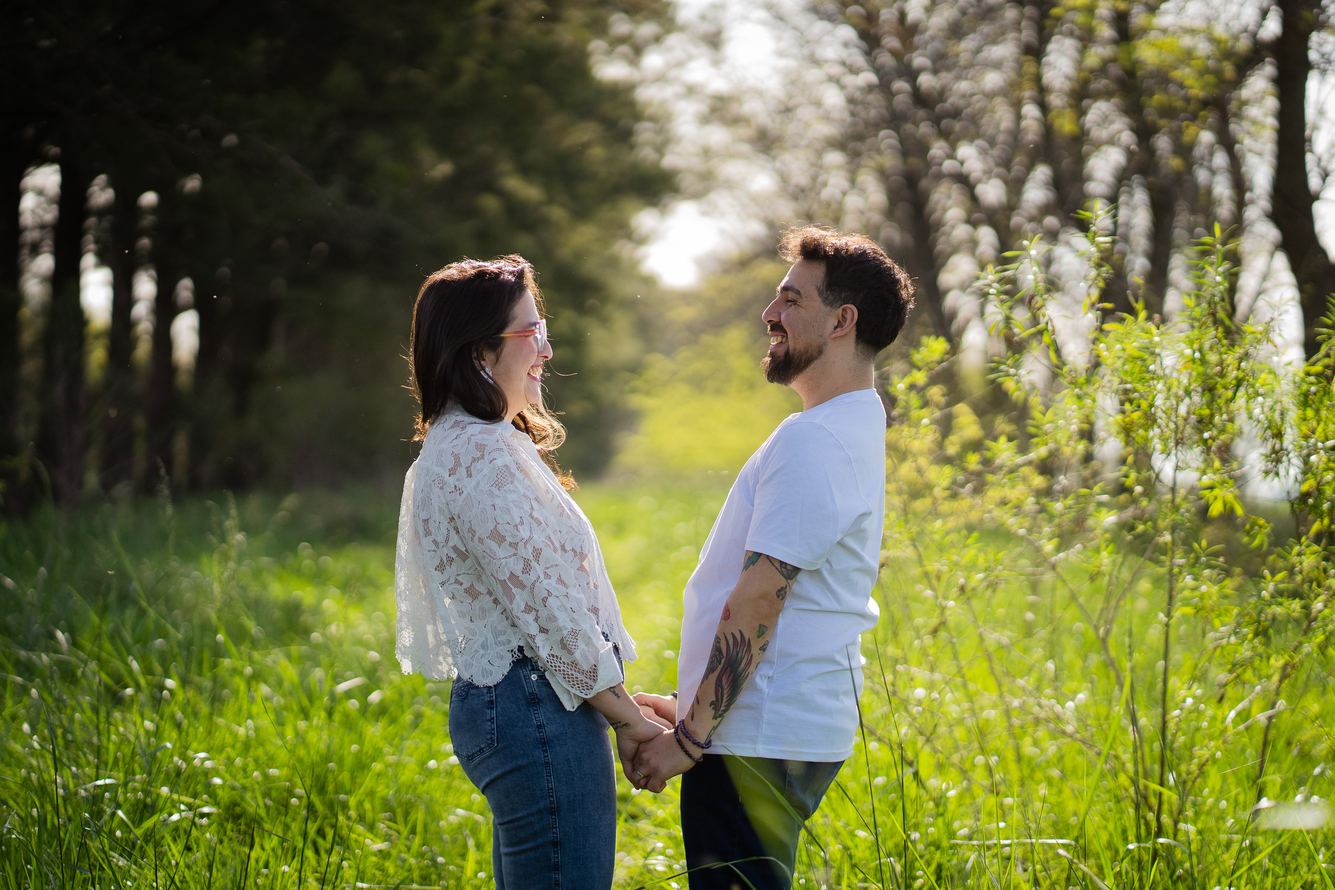
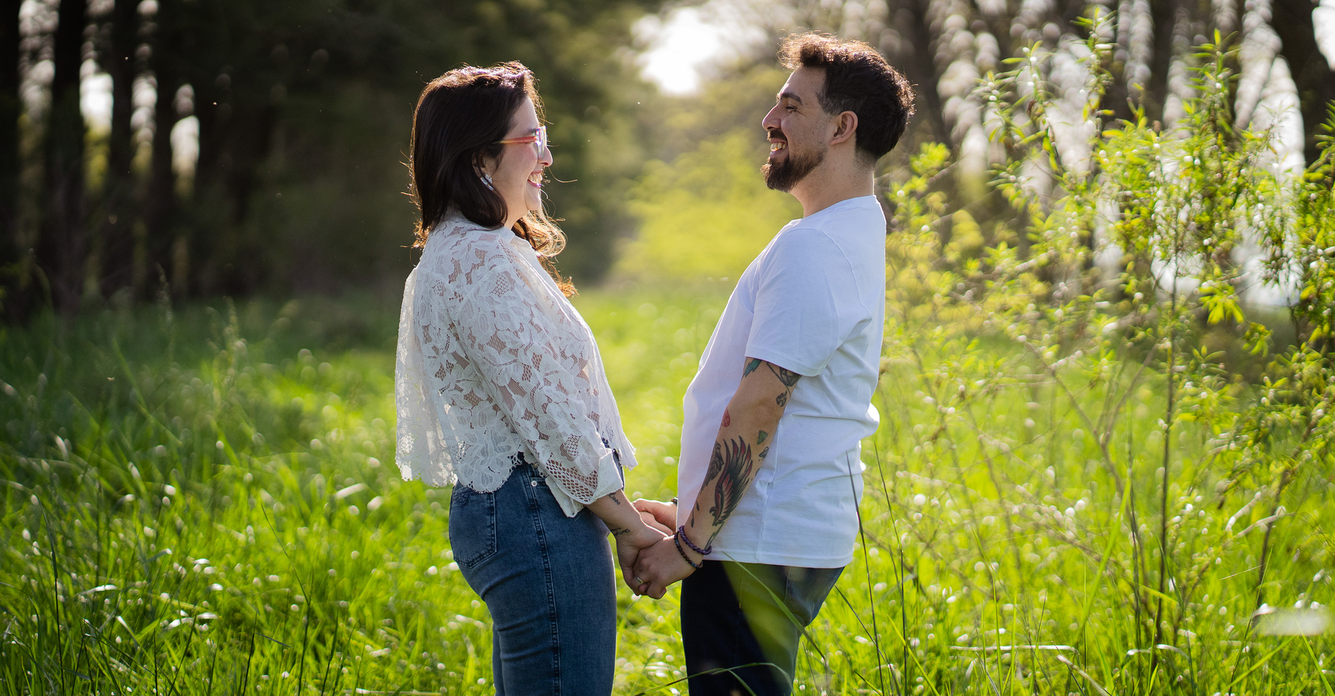
fotos

diff --git a/scss/layout/main.scss b/scss/layout/main.scss
@@ -29,8 +29,8 @@
         text-align: center;
         z-index: 100;
         background-color: var(--main-color-2);
-        position: absolute;
-        bottom: 0;
+        position: sticky;
+        top: 100vh;
         width: 100%;
         opacity: 90%;
         }
@@ -88,6 +88,20 @@
             }
         }
     }
+
+    #foto1{
+        scroll-snap-align: start;
+        height: 100vh;
+        background-image: url(../../images/1.jpg);
+        background-size: cover;
+        background-repeat: no-repeat;
+        @include media-query-mobile{
+            background-image: url(../../images/43.jpg);
+            background-size: cover;
+            background-repeat: no-repeat;
+        }
+    }
+
     #save-date{
         scroll-snap-align: start;
         .texto-date{
@@ -178,6 +192,19 @@
         }
     }
 
+    #foto2{
+        scroll-snap-align: start;
+        height: 100vh;
+        background-image: url(../../images/34.jpg);
+        background-size: cover;
+        background-repeat: no-repeat;
+        @include media-query-mobile{
+            background-image: url(../../images/73.jpg);
+            background-size: cover;
+            background-repeat: no-repeat;
+        }
+    }
+
     #civil{
         scroll-snap-align: start;
         .texto-civil{
@@ -225,6 +252,19 @@
                     font-size: 46px;
                 }
             }
+        }
+    }
+
+    #foto3{
+        scroll-snap-align: start;
+        height: 100vh;
+        background-image: url(../../images/52.jpg);
+        background-size: cover;
+        background-repeat: no-repeat;
+        @include media-query-mobile{
+            background-image: url(../../images/41.jpg);
+            background-size: cover;
+            background-repeat: no-repeat;
         }
     }
 
@@ -312,6 +352,19 @@
         }
     }
 
+    #foto4{
+        scroll-snap-align: start;
+        height: 100vh;
+        background-image: url(../../images/70.jpg);
+        background-size: cover;
+        background-repeat: no-repeat;
+        @include media-query-mobile{
+            background-image: url(../../images/4.jpg);
+            background-size: cover;
+            background-repeat: no-repeat;
+        }
+    }
+
     #gift{
         scroll-snap-align: start;
         height: 100vh;
@@ -383,6 +436,19 @@
                     font-size: 40px;
                 }
             }
+        }
+    }
+
+    #foto5{
+        scroll-snap-align: start;
+        height: 100vh;
+        background-image: url(../../images/39.jpg);
+        background-size: cover;
+        background-repeat: no-repeat;
+        @include media-query-mobile{
+            background-image: url(../../images/71.jpg);
+            background-size: cover;
+            background-repeat: no-repeat;
         }
     }
 
@@ -462,15 +528,37 @@
     }
 
     #see-you{
-        font-size: 30px;
-        color: var(--main-color);
-        text-align: center;
-        padding-top: 50px;
-        padding-bottom: 30px;
-        @include media-query-maxitablet{
-            font-size: 70px;
-            padding-bottom: 30px;
+        scroll-snap-align: start;
+        height: 100vh;
+        background-image: url(../../images/7.jpg);
+        background-size: cover;
+        background-repeat: no-repeat;
+        @include media-query-mobile{
+            background-image: url(../../images/76.jpg);
+            background-size: cover;
+            background-repeat: no-repeat;
+        }
+        h3{
+            font-size: 40px;
+            color: var(--main-color);
+            background-color: var(--main-color-2);
+            position: sticky;
+            top: 100vh;
+            width: 100%;
+            height: 50px;
+            padding: 10px 0;
+            z-index: 100;
+            text-align: center;
+            @include media-query-maxitablet{
+                font-size: 70px;
+                padding-bottom: 30px;
+            }
+            @include media-query-mobile{
+                position: sticky;
+                top: 30vh;
+                color: var(--main-color-2);
+                background-color: unset;
+            }
         }
     }
 }
-

diff --git a/css/main.css b/css/main.css
@@ -66,8 +66,8 @@ body {
   text-align: center;
   z-index: 100;
   background-color: var(--main-color-2);
-  position: absolute;
-  bottom: 0;
+  position: sticky;
+  top: 100vh;
   width: 100%;
   opacity: 90%;
 }
@@ -127,6 +127,20 @@ body {
 @media (min-width: 1024px) and (max-width: 2400px) {
   #secciones #date .date .countdown-container .texto .message {
     font-size: 100px;
+  }
+}
+#secciones #foto1 {
+  scroll-snap-align: start;
+  height: 100vh;
+  background-image: url(../../images/1.jpg);
+  background-size: cover;
+  background-repeat: no-repeat;
+}
+@media (max-width: 768px) {
+  #secciones #foto1 {
+    background-image: url(../../images/43.jpg);
+    background-size: cover;
+    background-repeat: no-repeat;
   }
 }
 #secciones #save-date {
@@ -228,6 +242,20 @@ body {
   background-color: var(--main-color-2);
   border: 1px solid var(--secondary-color);
 }
+#secciones #foto2 {
+  scroll-snap-align: start;
+  height: 100vh;
+  background-image: url(../../images/34.jpg);
+  background-size: cover;
+  background-repeat: no-repeat;
+}
+@media (max-width: 768px) {
+  #secciones #foto2 {
+    background-image: url(../../images/73.jpg);
+    background-size: cover;
+    background-repeat: no-repeat;
+  }
+}
 #secciones #civil {
   scroll-snap-align: start;
 }
@@ -281,6 +309,20 @@ body {
 @media (min-width: 1024px) and (max-width: 2400px) {
   #secciones #civil .texto-civil h3 {
     font-size: 46px;
+  }
+}
+#secciones #foto3 {
+  scroll-snap-align: start;
+  height: 100vh;
+  background-image: url(../../images/52.jpg);
+  background-size: cover;
+  background-repeat: no-repeat;
+}
+@media (max-width: 768px) {
+  #secciones #foto3 {
+    background-image: url(../../images/41.jpg);
+    background-size: cover;
+    background-repeat: no-repeat;
   }
 }
 #secciones #photo-app {
@@ -373,6 +415,20 @@ body {
     padding: 30px 10px;
   }
 }
+#secciones #foto4 {
+  scroll-snap-align: start;
+  height: 100vh;
+  background-image: url(../../images/70.jpg);
+  background-size: cover;
+  background-repeat: no-repeat;
+}
+@media (max-width: 768px) {
+  #secciones #foto4 {
+    background-image: url(../../images/4.jpg);
+    background-size: cover;
+    background-repeat: no-repeat;
+  }
+}
 #secciones #gift {
   scroll-snap-align: start;
   height: 100vh;
@@ -458,6 +514,20 @@ body {
     font-size: 40px;
   }
 }
+#secciones #foto5 {
+  scroll-snap-align: start;
+  height: 100vh;
+  background-image: url(../../images/39.jpg);
+  background-size: cover;
+  background-repeat: no-repeat;
+}
+@media (max-width: 768px) {
+  #secciones #foto5 {
+    background-image: url(../../images/71.jpg);
+    background-size: cover;
+    background-repeat: no-repeat;
+  }
+}
 #secciones #game {
   scroll-snap-align: start;
   background-color: var(--secondary-color);
@@ -541,16 +611,43 @@ body {
   border: 1px solid var(--main-color-2);
 }
 #secciones #see-you {
-  font-size: 30px;
+  scroll-snap-align: start;
+  height: 100vh;
+  background-image: url(../../images/7.jpg);
+  background-size: cover;
+  background-repeat: no-repeat;
+}
+@media (max-width: 768px) {
+  #secciones #see-you {
+    background-image: url(../../images/76.jpg);
+    background-size: cover;
+    background-repeat: no-repeat;
+  }
+}
+#secciones #see-you h3 {
+  font-size: 40px;
   color: var(--main-color);
+  background-color: var(--main-color-2);
+  position: sticky;
+  top: 100vh;
+  width: 100%;
+  height: 50px;
+  padding: 10px 0;
+  z-index: 100;
   text-align: center;
-  padding-top: 50px;
-  padding-bottom: 30px;
 }
 @media (min-width: 1024px) and (max-width: 2400px) {
-  #secciones #see-you {
+  #secciones #see-you h3 {
     font-size: 70px;
     padding-bottom: 30px;
+  }
+}
+@media (max-width: 768px) {
+  #secciones #see-you h3 {
+    position: sticky;
+    top: 30vh;
+    color: var(--main-color-2);
+    background-color: unset;
   }
 }
 

diff --git a/index.html b/index.html
@@ -38,6 +38,9 @@
                     </div>
             </section>
 
+            <section id="foto1">
+            </section>
+
             <section id="save-date">
                 <div class="save-date">
                     <div class="texto-date">
@@ -50,6 +53,9 @@
                     </div>
                 </div>
             </section>
+
+            <section id="foto2">
+            </section>
             
             <section id="civil">
                 <div class="texto-civil">
@@ -60,6 +66,9 @@
                     <h3>Casa de la Provincia de Buenos Aires.</h3>
                     <h3>Andrade 159.</h3>
                 </div>
+            </section>
+
+            <section id="foto3">
             </section>
 
             <section id="photo-app">
@@ -86,6 +95,9 @@
                 <hr class="hr3">
             </section>
 
+            <section id="foto4">
+            </section>
+
             <section id="gift">
                 <img src="./images/regalo.png" alt="regalo">
                 <div class="futuro">
@@ -98,6 +110,9 @@
                     <p>Cuenta Brubank</p>
                     <p>A nombre de Agustín Castón</p>
                 </div>
+            </section>
+
+            <section id="foto5">
             </section>
 
             <section id="game">
